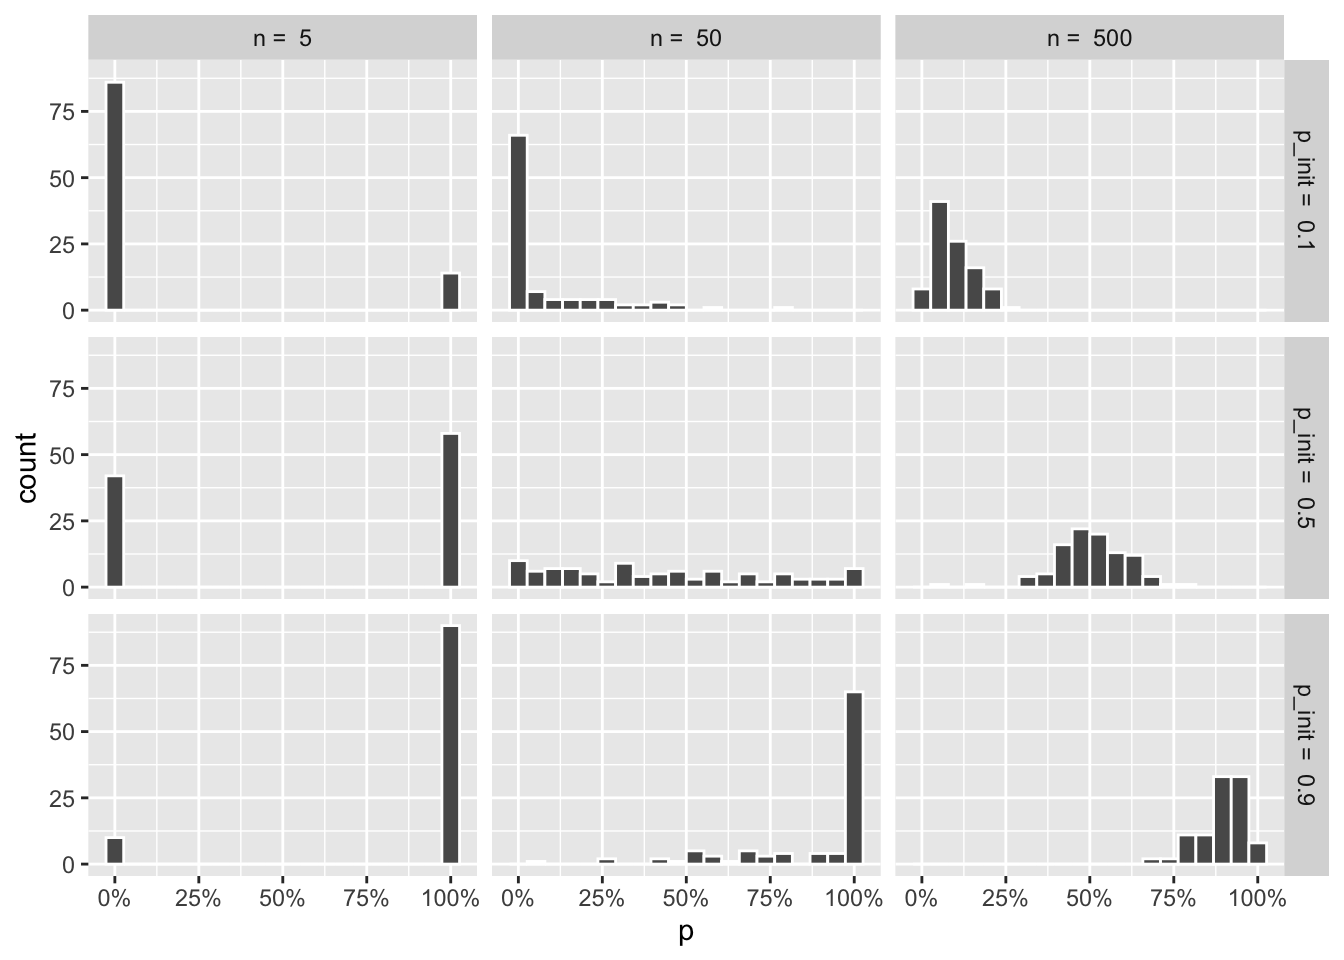
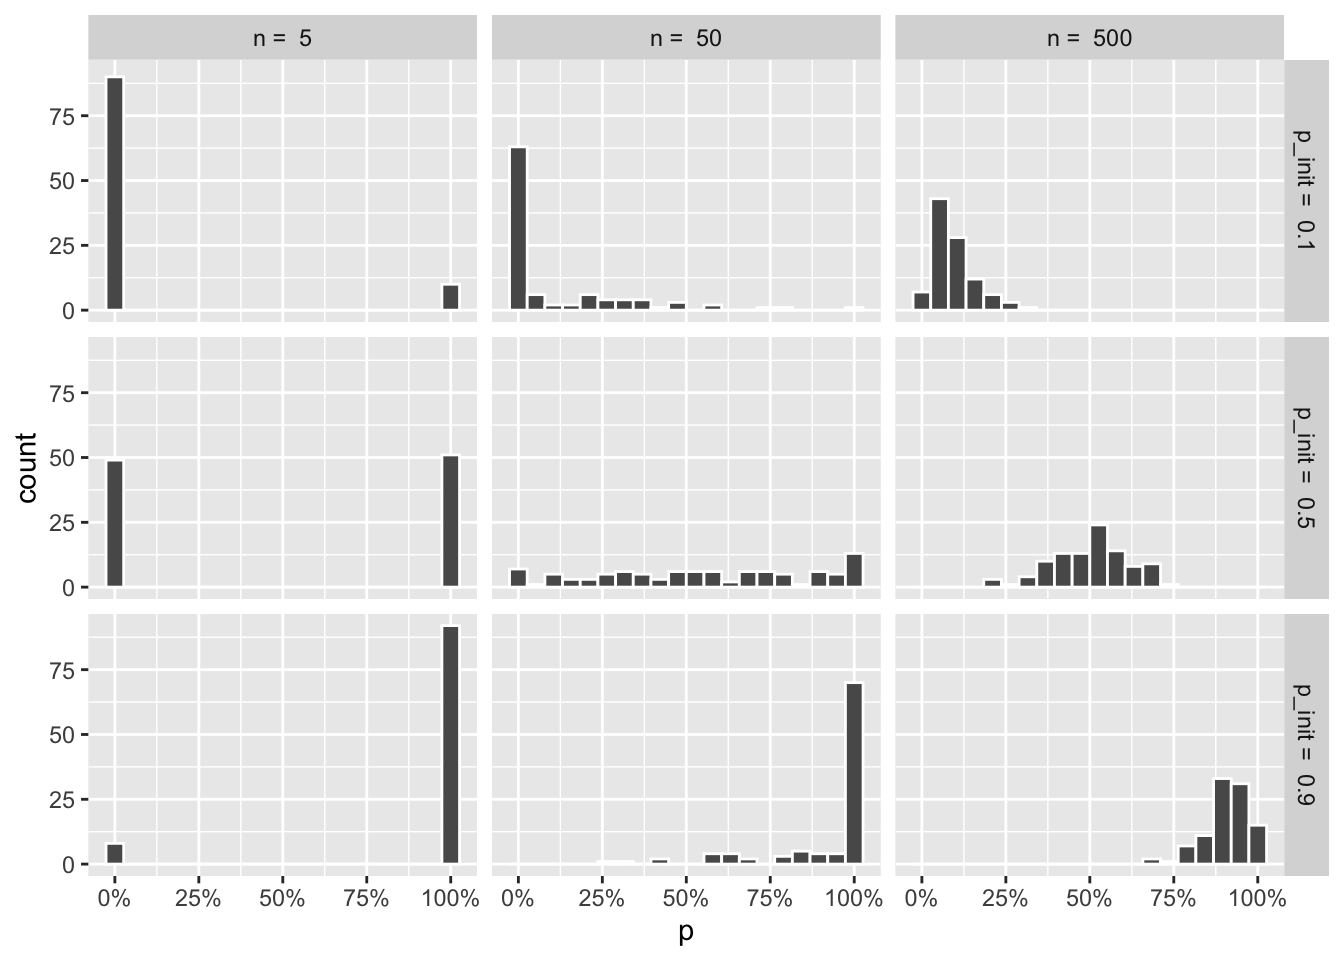
Bluesky comments on wf post + fix typos and erros

diff --git a/docs/blog/2025-01-03-Wright-Fisher Simulation in R/wright-fisher.html b/docs/blog/2025-01-03-Wright-Fisher Simulation in R/wright-fisher.html
@@ -82,6 +82,8 @@ pre > code.sourceCode > span > a:first-child::before { text-decoration: underlin
 <script src="../../site_libs/quarto-contrib/shinylive-0.9.1/shinylive/run-python-blocks.js" type="module"></script>
 <link href="../../site_libs/quarto-contrib/shinylive-0.9.1/shinylive/shinylive.css" rel="stylesheet">
 <link href="../../site_libs/quarto-contrib/shinylive-quarto-css/shinylive-quarto.css" rel="stylesheet">
+<script src="../../site_libs/quarto-contrib/bluesky-comments-1.0.0/bluesky-comments.js"></script>
+<link href="../../site_libs/quarto-contrib/bluesky-comments-1.0.0/styles.css" rel="stylesheet">
 <script src="../../site_libs/quarto-contrib/iconify-2.1.0/iconify-icon.min.js"></script>
 <script id="quarto-search-options" type="application/json">{
   "location": "navbar",
@@ -475,7 +477,7 @@ server &lt;- function(input, output, session) {
 shiny::shinyApp(ui, server)
 </code></pre>
 <p><br></p>
-<p>(I’m not 100% there yet - the histograms break the app, but I am on it!)</p>
+<p>I’m finding that some browsers struggle to show all of the apps I’m making - this one struggles with showing histograms sometimes. If that’s happening to you, try opening the site in Google Chrome.</p>
 </section>
 <section id="visualising-drift" class="level2">
 <h2 class="anchored" data-anchor-id="visualising-drift">Visualising drift</h2>
@@ -604,8 +606,8 @@ shiny::shinyApp(ui, server)
 <pre data-code-line-numbers=""><code># A tibble: 2 × 6
   expression                       min   median `itr/sec` mem_alloc `gc/sec`
   &lt;bch:expr&gt;                  &lt;bch:tm&gt; &lt;bch:tm&gt;     &lt;dbl&gt; &lt;bch:byt&gt;    &lt;dbl&gt;
-1 wf_sim(t = 5000)             28.57ms  31.43ms      31.2   107.8MB     85.7
-2 wf_sim_vectorized(t = 5000)   4.56ms   4.98ms     157.     12.2MB     43.6</code></pre>
+1 wf_sim(t = 5000)              28.8ms  31.59ms      30.2   107.8MB     83.1
+2 wf_sim_vectorized(t = 5000)   4.08ms   4.83ms     158.     12.2MB     45.4</code></pre>
 </div>
 </div>
 <p>That looks about right. My hunch is that the time it takes for the first approach to run increases by <span class="math inline">\(O(t^2)\)</span> as the number of generations increases, while the vectorized function should run in linear time <span class="math inline">\(O(t)\)</span>.</p>
@@ -660,9 +662,9 @@ shiny::shinyApp(ui, server)
 <pre data-code-line-numbers=""><code># A tibble: 3 × 6
   expression                       min   median `itr/sec` mem_alloc `gc/sec`
   &lt;bch:expr&gt;                  &lt;bch:tm&gt; &lt;bch:tm&gt;     &lt;dbl&gt; &lt;bch:byt&gt;    &lt;dbl&gt;
-1 wf_sim(t = 5000)             30.22ms  32.52ms      27.4   107.8MB    103. 
-2 wf_sim_vectorized(t = 5000)   4.59ms   4.83ms     173.     12.2MB     43.7
-3 wf_sim_tidy(t = 5000)         9.38ms  10.23ms      89.7    12.4MB     27.9</code></pre>
+1 wf_sim(t = 5000)              31.3ms  34.81ms      25.4   107.8MB     94.3
+2 wf_sim_vectorized(t = 5000)   4.21ms   4.79ms     176.     12.2MB     44.0
+3 wf_sim_tidy(t = 5000)          9.8ms  10.56ms      86.2    12.4MB     25.5</code></pre>
 </div>
 </div>
 <p>The lesson here is that loops are fine. There are some benefits to the syntax in <code>accumulate</code>, but they come from the code being more legible and easier to maintain. These are completely valid reasons to prefer this implementation, but if you’re more worried about performance, you might as well stick with the humble loop.</p>
@@ -714,15 +716,15 @@ shiny::shinyApp(ui, server)
      sim p_init     n     p     t
    &lt;int&gt;  &lt;dbl&gt; &lt;dbl&gt; &lt;dbl&gt; &lt;int&gt;
  1     1    0.1     5   0.1     1
- 2     1    0.1     5   0.1     2
- 3     1    0.1     5   0       3
- 4     1    0.1     5   0       4
- 5     1    0.1     5   0       5
- 6     1    0.1     5   0       6
- 7     1    0.1     5   0       7
- 8     1    0.1     5   0       8
- 9     1    0.1     5   0       9
-10     1    0.1     5   0      10
+ 2     1    0.1     5   0.4     2
+ 3     1    0.1     5   0.3     3
+ 4     1    0.1     5   0.3     4
+ 5     1    0.1     5   0.3     5
+ 6     1    0.1     5   0.4     6
+ 7     1    0.1     5   0.2     7
+ 8     1    0.1     5   0.1     8
+ 9     1    0.1     5   0.3     9
+10     1    0.1     5   0.5    10
 # ℹ 45,890 more rows</code></pre>
 </div>
 </div>
@@ -812,7 +814,7 @@ shiny::shinyApp(ui, server)
 </div>
 <p>Say you model a population where a specific allele isn’t present at all. Because the allele is lost from the beginning, it will stay lost after 50 generations. But if you introduce a chance every generation, of say 10%, that the allele will appear by random mutation, that might be enough for the allele to fix in population for pretty much all simulations:</p>
 <div class="cell">
-<div class="sourceCode cell-code" id="cb23" data-source-line-numbers="nil" data-code-line-numbers="nil"><pre class="sourceCode r code-with-copy"><code class="sourceCode r"><span id="cb23-1"><a href="#cb23-1" aria-hidden="true" tabindex="-1"></a><span class="fu">draw_sims</span>(<span class="at">p =</span> <span class="dv">0</span>) <span class="sc">|</span> </span>
+<div class="sourceCode cell-code" id="cb23" data-source-line-numbers="nil" data-code-line-numbers="nil"><pre class="sourceCode r code-with-copy"><code class="sourceCode r"><span id="cb23-1"><a href="#cb23-1" aria-hidden="true" tabindex="-1"></a><span class="fu">draw_sims</span>(<span class="at">p =</span> <span class="dv">0</span>) <span class="sc">/</span></span>
 <span id="cb23-2"><a href="#cb23-2" aria-hidden="true" tabindex="-1"></a><span class="fu">draw_sims</span>(<span class="at">sim_function =</span> wf_sim_mutation, <span class="at">p =</span> <span class="dv">0</span>, <span class="at">mut_to =</span> .<span class="dv">10</span>)</span></code><button title="Copy to Clipboard" class="code-copy-button"><i class="bi"></i></button></pre></div>
 <div class="cell-output-display">
 <div>
@@ -822,7 +824,7 @@ shiny::shinyApp(ui, server)
 </div>
 </div>
 </div>
-<p>Another thing that fascinates me is the fact that a two-allele system like this has a mutation equilibrium, where the rates of <code>mut_to</code> and <code>mut_from</code> are equal. This leads to stable allele frequencies over time, regardless of initiall allele frequency, which can be predicted with this formula:</p>
+<p>Another thing that fascinates me is the fact that a two-allele system like this has a mutation equilibrium, where the rates of <code>mut_to</code> and <code>mut_from</code> are in equilibrium. This means stable allele frequencies over time, regardless of initial allele frequency, which can be predicted with this formula:</p>
 <p><span class="math display">\[p_{\text{eq}} = \frac{\mu_{\text{ to}}}{\mu_{\text{ from}} + \mu_{\text{ to}}}\]</span></p>
 <div class="cell">
 <div class="sourceCode cell-code" id="cb24" data-source-line-numbers="nil" data-code-line-numbers="nil"><pre class="sourceCode r code-with-copy"><code class="sourceCode r"><span id="cb24-1"><a href="#cb24-1" aria-hidden="true" tabindex="-1"></a><span class="fu">draw_sims</span>(<span class="at">sim_function =</span> wf_sim_mutation, <span class="at">p =</span> <span class="dv">0</span>, <span class="at">mut_from =</span> .<span class="dv">1</span>, <span class="at">mut_to =</span> .<span class="dv">2</span>) <span class="sc">&amp;</span> </span>
@@ -852,7 +854,12 @@ shiny::shinyApp(ui, server)
 <h3 class="anchored" data-anchor-id="selection">Selection</h3>
 <p>At this point, I might as well mention selection. Selection introduces a bias in the allele frequencies being drawn at each generation, by favoring certain alleles, or genotypes. In our diploid two-allele system, where alleles are called <span class="math inline">\(A\)</span> and <span class="math inline">\(a\)</span>, the relative fitness of each genotype can be denoted as <span class="math inline">\(w_{AA}\)</span>, <span class="math inline">\(w{Aa}\)</span>, and <span class="math inline">\(w_{aa}\)</span>. The probability of sampling allele <span class="math inline">\(A\)</span> every generation will be adjusted as follows:</p>
 <p><span class="math display">\[p_{\text{sel}} = \frac{p^2 \cdot w_{AA} + p \cdot q \cdot w_{Aa}}{p^2 \cdot w_{AA} + 2 \cdot p \cdot q \cdot w_{Aa} + q^2 \cdot w_{aa}}\]</span></p>
-<p>Here: - <em>p</em> is the frequency of allele <em>A</em>, - <em>q = 1 - p</em>, which is the frequency of allele <em>a</em>, - <span class="math inline">\(w_{AA}\)</span>, <span class="math inline">\(w_{Aa}\)</span>, and <span class="math inline">\(w_{aa}\)</span> are the fitnesses of the <span class="math inline">\(AA\)</span>, <span class="math inline">\(Aa\)</span>, and <span class="math inline">\(aa\)</span> genotypes, respectively.</p>
+<p>Here:</p>
+<ul>
+<li><p><em>p</em> is the frequency of allele <em>A</em></p></li>
+<li><p><em>q = 1 - p</em>, which is the frequency of allele <em>a</em></p></li>
+<li><p><span class="math inline">\(w_{AA}\)</span>, <span class="math inline">\(w_{Aa}\)</span>, and <span class="math inline">\(w_{aa}\)</span> are the fitnesses of the <span class="math inline">\(AA\)</span>, <span class="math inline">\(Aa\)</span>, and <span class="math inline">\(aa\)</span> genotypes, respectively.</p></li>
+</ul>
 <div class="cell">
 <div class="sourceCode cell-code" id="cb26" data-source-line-numbers="nil" data-code-line-numbers="nil"><pre class="sourceCode r code-with-copy"><code class="sourceCode r"><span id="cb26-1"><a href="#cb26-1" aria-hidden="true" tabindex="-1"></a>wf_sim_selection <span class="ot">&lt;-</span> <span class="cf">function</span>(<span class="at">p =</span> .<span class="dv">5</span>, <span class="at">n =</span> <span class="dv">50</span>, <span class="at">t =</span> <span class="dv">50</span>, <span class="at">fit_AA =</span> <span class="dv">1</span>, <span class="at">fit_Aa =</span> <span class="dv">1</span>, <span class="at">fit_aa =</span> <span class="dv">1</span>) {</span>
 <span id="cb26-2"><a href="#cb26-2" aria-hidden="true" tabindex="-1"></a></span>
@@ -899,6 +906,8 @@ shiny::shinyApp(ui, server)
 <li><p>Implementation matters for efficiency. Some of the simulation functions implemented here produced the exact same output, but had vastly different run times.</p></li>
 </ul>
 <p>I think the most powerful part of this whole thing is the inclusion of the shinylive app. Tinkering with tools like this is probably the most effective way of gaining intuition for these kinds of models - that along with effective visualization.</p>
+    <bluesky-comments post="at://did:plc:pk6346ydqvifmlgimbez4dsx/app.bsky.feed.post/3lfdzaltnt22u" filter-config="{&quot;filterEmptyReplies&quot;:true,&quot;mutePatterns&quot;:[&quot;📌&quot;],&quot;muteUsers&quot;:[&quot;did:plc:1234abcd&quot;]}" n-show-init="3" n-show-more="2"></bluesky-comments>
+  
 
 
 </section>

diff --git a/docs/blog.html b/docs/blog.html
@@ -245,7 +245,7 @@ Emil Malta
 </a>
 </div>
 </div>
-<div class="quarto-post image-right" data-index="1" data-listing-date-sort="1736463600000" data-listing-file-modified-sort="1736496873697" data-listing-date-modified-sort="NaN" data-listing-reading-time-sort="23" data-listing-word-count-sort="4417">
+<div class="quarto-post image-right" data-index="1" data-listing-date-sort="1736463600000" data-listing-file-modified-sort="1736792854825" data-listing-date-modified-sort="NaN" data-listing-reading-time-sort="23" data-listing-word-count-sort="4467">
 <div class="thumbnail">
 <p><a href="./blog/2025-01-03-Wright-Fisher Simulation in R/wright-fisher.html" class="no-external"></a></p><a href="./blog/2025-01-03-Wright-Fisher Simulation in R/wright-fisher.html" class="no-external">
 <p><img loading="lazy" src="./blog/2025-01-03-Wright-Fisher Simulation in R/cover.jpg" class="thumbnail-image"></p>
